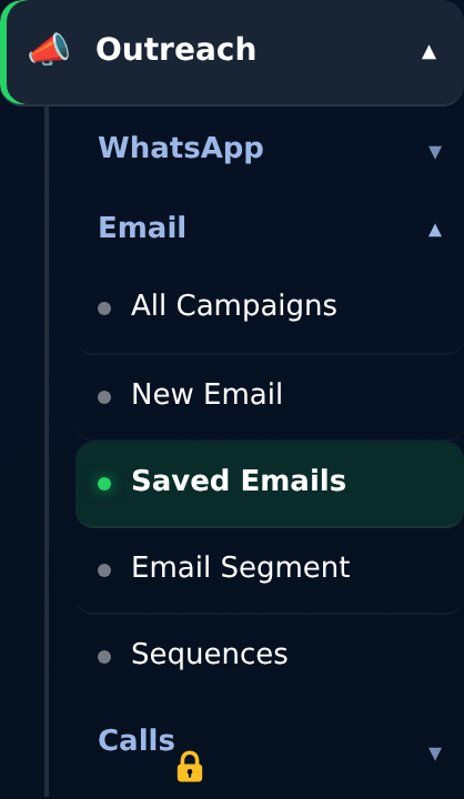
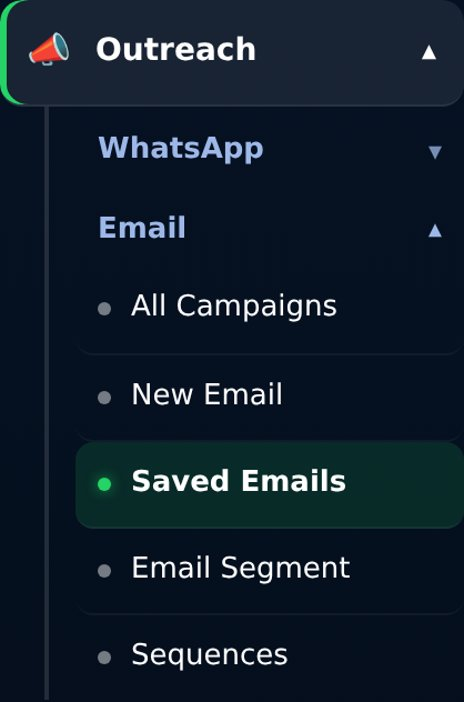
Menu: WhatsApp Calls moved under Outreach › WhatsApp
Outreach › Calls becomes a "WhatsApp Calls" fold-out at the bottom of
Outreach › WhatsApp (Call Log, Call Settings), styled like the other
WhatsApp items. Same pages, role ticks and padlock; WhatsApp opens on
call pages; WhatsApp heading padlock only when neither campaigns nor
calls are in the plan. Guides and Calls page paths updated, Email guide
menu picture retaken.

diff --git a/api-key-manager/templates/portal/base.html b/api-key-manager/templates/portal/base.html
@@ -137,6 +137,17 @@
     .sb-subtoggle.open .sb-arrow{transform:rotate(180deg); opacity:1}
     .sb-sub2{overflow:hidden; max-height:0; transition:max-height .25s cubic-bezier(.4,0,.2,1)}
     .sb-sub2.open{max-height:700px}
+    /* WhatsApp Calls fold-out inside Outreach › WhatsApp (2026-11-06) */
+    /* Row looks like the other WhatsApp items (same dot, size, left edge); its two pages sit indented under it */
+    .sb-subgroup-inner{border-top:1px solid rgba(3,12,24,0.05)}
+    .sb-subgroup-inner > .sb-subtoggle{justify-content:flex-start; gap:9px; padding:9px 10px;
+                  font-size:13px; font-weight:500; color:rgba(3,12,24,0.60)}
+    .sb-subgroup-inner > .sb-subtoggle:before{content:""; width:6px; height:6px; border-radius:50%;
+                  background:rgba(3,12,24,0.20); flex-shrink:0}
+    .sb-subgroup-inner > .sb-subtoggle > span:first-child{flex:1}
+    .sb-subgroup-inner > .sb-subtoggle.open{color:var(--ink); font-weight:650}
+    .sb-subgroup-inner > .sb-sub2{padding-left:15px}
+    .sb-sub2:has(.sb-subgroup-inner .sb-sub2.open).open{max-height:1000px}
     .sb-sub a{
       display:flex; align-items:center; gap:9px;
       padding:9px 10px; border-radius:8px;
@@ -568,6 +579,9 @@
 
     .sb-sub{border-left-color:rgba(255,255,255,0.12)}
     .sb-subtoggle{color:#9DB8E8}
+    .sb-subgroup-inner{border-top-color:rgba(255,255,255,0.05)}
+    .sb-subgroup-inner > .sb-subtoggle, .sb-subgroup-inner > .sb-subtoggle.open{color:#fff}
+    .sb-subgroup-inner > .sb-subtoggle:before{background:rgba(255,255,255,0.45)}
     .sb-subtoggle:hover{background:rgba(255,255,255,0.06); color:#fff}
     .sb-sub a{color:#fff; border-bottom-color:rgba(255,255,255,0.05)}
     .sb-sub a:before{background:rgba(255,255,255,0.45)}
@@ -707,12 +721,12 @@
       </div>
       <div class="sb-sub sb-sub-tall {% if _campaigns_any %}open{% endif %}">
         <div class="sb-subgroup">
-          <button type="button" class="sb-subtoggle {% if _camp_group %}open{% endif %}"
-                  onclick="sbSubToggle(this)" aria-expanded="{{ 'true' if _camp_group else 'false' }}">
-            <span>WhatsApp{% if 'legacy:feat_broadcasts' not in granted_features %}<span class="sb-lock" title="Upgrade to unlock">🔒</span>{% endif %}</span>
+          <button type="button" class="sb-subtoggle {% if _camp_group or _calls_group %}open{% endif %}"
+                  onclick="sbSubToggle(this)" aria-expanded="{{ 'true' if (_camp_group or _calls_group) else 'false' }}">
+            <span>WhatsApp{% if 'legacy:feat_broadcasts' not in granted_features and 'voice.calls' not in granted_features %}<span class="sb-lock" title="Upgrade to unlock">🔒</span>{% endif %}</span>
             <span class="sb-arrow" aria-hidden="true">▾</span>
           </button>
-          <div class="sb-sub2 {% if _camp_group %}open{% endif %}">
+          <div class="sb-sub2 {% if _camp_group or _calls_group %}open{% endif %}">
           {% if staff_can_open('portal.whatsapp_campaigns') %}
           <a href="{{ url_for('portal.whatsapp_campaigns') }}"
              class="{% if request.endpoint == 'portal.whatsapp_campaigns' and request.args.get('view') != 'segments' %}active{% endif %}">
@@ -755,6 +769,22 @@
             {% endif %}
           </a>
           {% endif %}
+          {# WhatsApp Calls (2026-11-06): moved here from Outreach › Calls. Same pages, ticks and padlock. #}
+          <div class="sb-subgroup sb-subgroup-inner">
+            <button type="button" class="sb-subtoggle {% if _calls_group %}open{% endif %}"
+                    onclick="sbSubToggle(this)" aria-expanded="{{ 'true' if _calls_group else 'false' }}">
+              <span>WhatsApp Calls{% if 'voice.calls' not in granted_features %}<span class="sb-lock" title="Upgrade to unlock">🔒</span>{% endif %}</span>
+              <span class="sb-arrow" aria-hidden="true">▾</span>
+            </button>
+            <div class="sb-sub2 {% if _calls_group %}open{% endif %}">
+              {% if staff_can_open('calls.calls_page') %}
+              <a href="{{ url_for('calls.calls_page') }}" class="{% if request.endpoint == 'calls.calls_page' %}active{% endif %}">Call Log</a>
+              {% endif %}
+              {% if staff_can_open('calls.calls_settings_index') %}
+              <a href="{{ url_for('calls.calls_settings_index') }}" class="{% if request.endpoint in ('calls.calls_settings', 'calls.calls_settings_index') %}active{% endif %}">Call Settings</a>
+              {% endif %}
+            </div>
+          </div>
           </div>
         </div>
         <div class="sb-subgroup">
@@ -799,21 +829,6 @@
             {% if 'campaigns_email.sequences_view' not in granted_features %}<span class="sb-lock" title="Upgrade to unlock">🔒</span>{% endif %}
           </a>
           {% endif %}
-          </div>
-        </div>
-        <div class="sb-subgroup">
-          <button type="button" class="sb-subtoggle {% if _calls_group %}open{% endif %}"
-                  onclick="sbSubToggle(this)" aria-expanded="{{ 'true' if _calls_group else 'false' }}">
-            <span>Calls{% if 'voice.calls' not in granted_features %}<span class="sb-lock" title="Upgrade to unlock">🔒</span>{% endif %}</span>
-            <span class="sb-arrow" aria-hidden="true">▾</span>
-          </button>
-          <div class="sb-sub2 {% if _calls_group %}open{% endif %}">
-            {% if staff_can_open('calls.calls_page') %}
-            <a href="{{ url_for('calls.calls_page') }}" class="{% if request.endpoint == 'calls.calls_page' %}active{% endif %}">Call Log</a>
-            {% endif %}
-            {% if staff_can_open('calls.calls_settings_index') %}
-            <a href="{{ url_for('calls.calls_settings_index') }}" class="{% if request.endpoint in ('calls.calls_settings', 'calls.calls_settings_index') %}active{% endif %}">Call Settings</a>
-            {% endif %}
           </div>
         </div>
         {# Social Media (2026-10-24): moved here from its own menu. Only once the business has connected Buffer, as before. #}

diff --git a/api-key-manager/templates/portal/help/calls_guide.html b/api-key-manager/templates/portal/help/calls_guide.html
@@ -67,7 +67,7 @@
 </style>
 <div class="callg" id="call-top">
 <div class="g-head">
-  <p class="g-lede">Everything under <b>Outreach › Calls</b> in the side menu: letting customers call your WhatsApp number, answering those calls in the portal, what happens when nobody answers, calling customers back, the Call Log, Call Settings for each number, the Calls report, and which ticks your team needs. Every picture is from the live portal (the caller's number is hidden).</p>
+  <p class="g-lede">Everything under <b>Outreach › WhatsApp › WhatsApp Calls</b> in the side menu: letting customers call your WhatsApp number, answering those calls in the portal, what happens when nobody answers, calling customers back, the Call Log, Call Settings for each number, the Calls report, and which ticks your team needs. Every picture is from the live portal (the caller's number is hidden).</p>
   <div class="g-meta">Last checked against the live portal: 21 October 2026</div>
 </div>
 <nav class="toc" aria-label="Contents"><details open><summary>Contents</summary>
@@ -148,7 +148,7 @@
 <!-- 4 -->
 <section class="part" id="call-settings">
 <h2><span class="num">4</span>Call Settings</h2>
-<p class="where">Side menu › <b>Outreach › Calls › Call Settings</b>. Needs the <span class="f">Call settings</span> tick.</p>
+<p class="where">Side menu › <b>Outreach › WhatsApp › WhatsApp Calls › Call Settings</b>. Needs the <span class="f">Call settings</span> tick.</p>
 
 <p>Every WhatsApp number has its own settings. The page opens on your first number; pick another from the list on the left.</p>
 
@@ -253,7 +253,7 @@
 <!-- 7 -->
 <section class="part" id="call-log">
 <h2><span class="num">7</span>The Call Log</h2>
-<p class="where">Side menu › <b>Outreach › Calls › Call Log</b>. Needs the <span class="f">Calls page</span> View tick.</p>
+<p class="where">Side menu › <b>Outreach › WhatsApp › WhatsApp Calls › Call Log</b>. Needs the <span class="f">Calls page</span> View tick.</p>
 <figure><img src="/static/portal/tutorial/calls/calls-log.png" width="1075" height="665" alt="The Call Log with four summary boxes, filter chips and the list of calls." loading="lazy"><figcaption>The Call Log.</figcaption></figure>
 <h4>Summary boxes</h4>
 <ul>
@@ -353,7 +353,7 @@
 
 <div class="recipe"><h4>Switch on calls for a number</h4>
 <ol class="steps">
-  <li>Open <b>Outreach › Calls › Call Settings</b> and pick the number on the left.</li>
+  <li>Open <b>Outreach › WhatsApp › WhatsApp Calls › Call Settings</b> and pick the number on the left.</li>
   <li>Check the four boxes: Connection should say <b>Fully on PhiXtra</b>.</li>
   <li>Switch on <b>Incoming calls</b>.</li>
   <li>Set <b>Calling hours</b> if you want them, and check the <b>Missed-call message</b>.</li>
@@ -379,7 +379,7 @@
 
 <div class="recipe"><h4>Handle a missed call</h4>
 <ol class="steps">
-  <li>Open <b>Outreach › Calls › Call Log</b> › <span class="ui">Missed · needs a call-back</span>.</li>
+  <li>Open <b>Outreach › WhatsApp › WhatsApp Calls › Call Log</b> › <span class="ui">Missed · needs a call-back</span>.</li>
   <li>Press <span class="ui">I'll call back</span> on the oldest one first.</li>
   <li>Press <span class="ui">Open chat</span> and reply, or call them back if outgoing calls are allowed on that number.</li>
   <li>If they're a new enquiry, press <span class="ui">＋ Add as lead</span>.</li>

diff --git a/api-key-manager/templates/portal/help/email_guide.html b/api-key-manager/templates/portal/help/email_guide.html
@@ -119,7 +119,7 @@
   </div>
 
   <h3 id="eml-intro-map">Where everything is</h3>
-  {{ shot('e01_menu', 'The Outreach menu with Email open', 'Outreach › Email in the side menu. Each part (WhatsApp, Email, Calls, Social Media) opens with its own arrow. You only see the items your role allows.') }}
+  {{ shot('e01_menu', 'The Outreach menu with Email open', 'Outreach › Email in the side menu. Each part (WhatsApp with WhatsApp Calls inside it, Email, Social Media) opens with its own arrow. You only see the items your role allows.') }}
   <div class="map">
     <div><b>All Campaigns</b>One-off emails to a group, now or at a set time, and their reports.</div>
     <div><b>New Email</b>Write a new email and save it. Nothing is sent from here.</div>

diff --git a/api-key-manager/templates/portal/calls.html b/api-key-manager/templates/portal/calls.html
@@ -48,7 +48,7 @@
 
 {% if not any_on %}
 <div class="cl-warn">Calls aren't switched on for any of your WhatsApp numbers yet, so customers can't call you.
-  {% if can_settings and numbers %}Open <a href="{{ url_for('calls.calls_settings_index') }}">Outreach › Calls › Call Settings</a> to switch them on.{% else %}Ask the owner or IT to switch them on.{% endif %}</div>
+  {% if can_settings and numbers %}Open <a href="{{ url_for('calls.calls_settings_index') }}">Outreach › WhatsApp › WhatsApp Calls › Call Settings</a> to switch them on.{% else %}Ask the owner or IT to switch them on.{% endif %}</div>
 {% endif %}
 
 <div class="cl-kpis">
